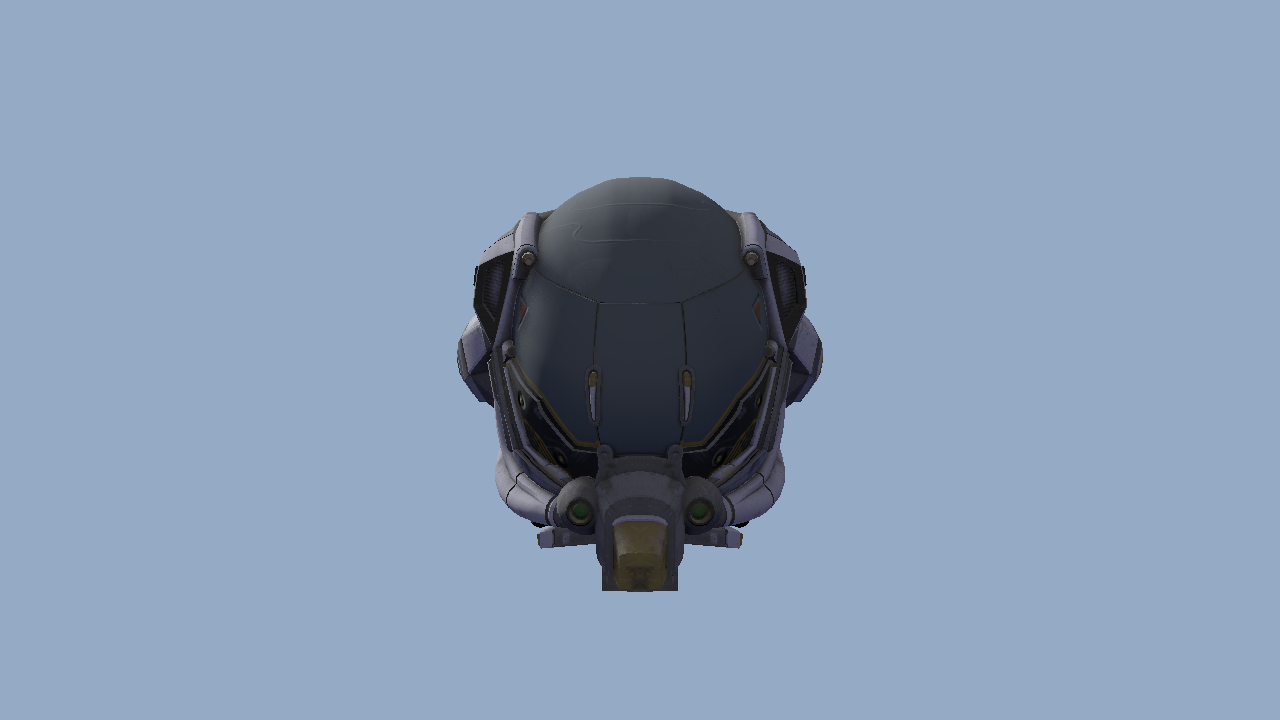
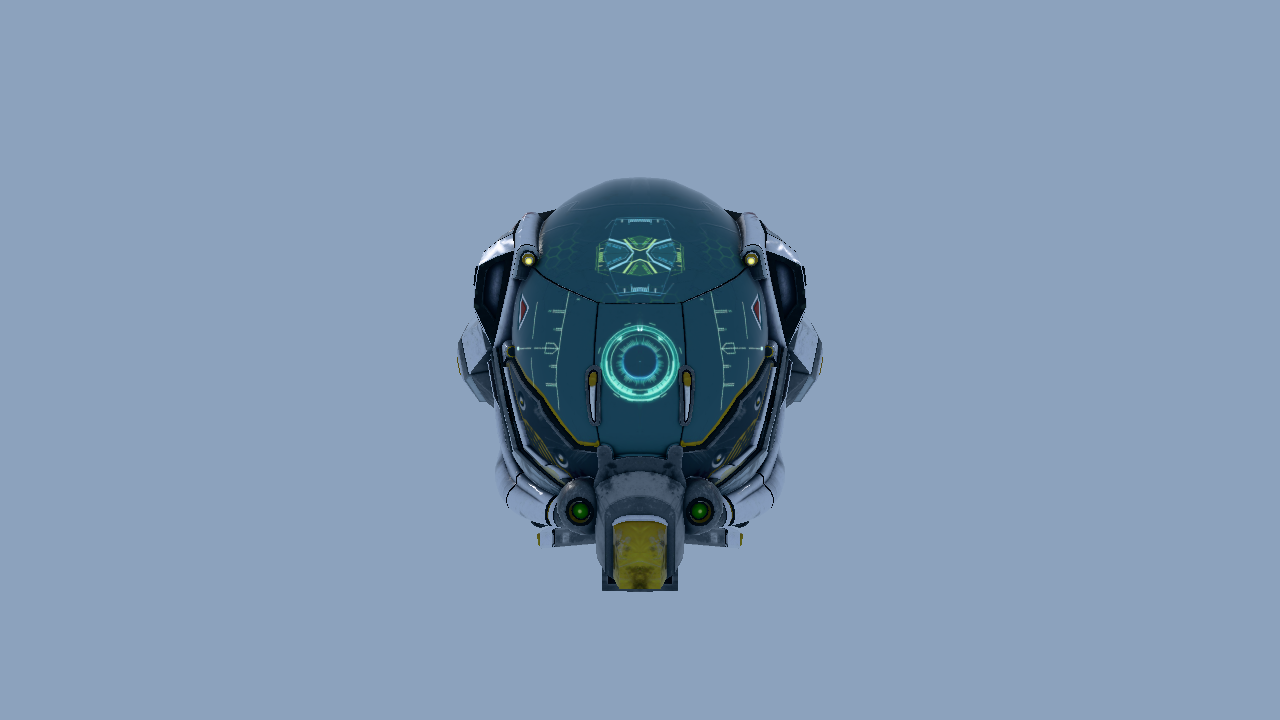
docs: refresh AGENTS and public copy for correct image formation
Update the architecture paragraph, the clear-color hard rule, the
scene list, and Stats-panel GPU timing; lead the README with shipped
PBR/IBL/HDR behavior and regenerate the gallery captures.

Changed region(s): [[0.3438, 0.2444, 0.6562, 0.825]]

diff --git a/README.md b/README.md
@@ -5,32 +5,34 @@
 [![Language](https://img.shields.io/badge/C%2B%2B-23-00599C)](#build-and-run)
 [![License](https://img.shields.io/badge/license-Apache--2.0-blue)](LICENSE)
 
-A compact C++23 renderer built directly on Metal 4. Luminex combines an explicit RHI, Slang
-shaders, real glTF content, GPU validation tests, and a docked editor in one inspectable codebase.
+A compact C++23 renderer built directly on Metal 4. Luminex combines an explicit RHI, a validating
+render graph, Slang shaders, real glTF content, GPU validation tests, and a docked editor in one
+inspectable codebase.
 
 [Rendering today](#rendering-today) · [Frame flow](#frame-flow) · [Build and run](#build-and-run) ·
 [Architecture](#architecture) · [What's next](#whats-next)
 
 ![Crytek Sponza atrium rendered by Luminex](docs/media/sponza.png)
 
-<p align="center"><sub>Crytek Sponza · forward lighting, normal mapping, PCF shadows · captured by the offscreen renderer</sub></p>
+<p align="center"><sub>Crytek Sponza · physically based materials, image-based lighting, scene-linear HDR · captured by the offscreen renderer</sub></p>
 
 ## Rendering today
 
 | Area | Current implementation |
 |---|---|
-| GPU backend | Native Metal 4 through metal-cpp; three frames in flight, argument tables, explicit residency and shared-event pacing |
-| Frame | Depth-only shadow pass → forward scene and sky → offscreen color → docked ImGui viewport |
-| Lighting | Gamma-correct linear Blinn-Phong, normal mapping, cubemap reflections and three directional lights |
+| GPU backend | Native Metal 4 through metal-cpp; three frames in flight, argument tables, explicit residency, shared-event pacing, and per-pass GPU timing |
+| Frame | A validating render graph schedules depth-only shadow → scene and sky → a neutral display transform → docked ImGui viewport, deriving its own barriers from declared resource uses |
+| Materials | Full glTF metallic-roughness inputs (base color, metallic-roughness, occlusion, emissive, normal) shaded with a GGX BRDF and diffuse/specular image-based lighting |
+| Image formation | Scene-linear FP16 color with manual exposure, a Khronos PBR Neutral display transform, and reversed infinite-far depth |
 | Shadows | 2048² directional shadow map with selectable 25-tap Poisson PCF or PCSS |
-| Content | Deterministically converted Crytek Sponza and Khronos Damaged Helmet through a focused glTF loader |
-| Editor | Scene selection, fly camera, light and object transforms, wireframe and shadow-filter controls |
-| Diagnostics | Object/pass labels, Metal validation, deterministic GPU smoke tests, capture sidecars and profiling tools |
+| Content | Deterministically converted Crytek Sponza and Khronos Damaged Helmet through a focused glTF loader, plus deterministic offline mip baking |
+| Editor | Scene selection, fly camera, light and object transforms, exposure, wireframe and shadow-filter controls, per-pass GPU timings |
+| Diagnostics | A code-generated material lab scene, object/pass labels, Metal validation, deterministic GPU smoke tests, capture sidecars and profiling tools |
 
 <p align="center">
   <img src="docs/media/damaged-helmet.png" alt="Khronos Damaged Helmet rendered by Luminex" width="760">
   <br>
-  <sub>Damaged Helmet · focused material, tangent-space and texture-path coverage</sub>
+  <sub>Damaged Helmet · full metallic-roughness material, image-based lighting, tangent-space normal mapping</sub>
 </p>
 
 ## Frame flow
@@ -39,25 +41,26 @@ shaders, real glTF content, GPU validation tests, and a docked editor in one ins
 flowchart TB
     subgraph Scene["Scene preparation"]
         direction LR
-        Assets["glTF + procedural geometry"] --> Engine["Engine scene"] --> View["SceneView"]
+        Assets["glTF + procedural geometry"] --> Engine["Engine scene + IBL"] --> View["SceneView"]
     end
-    subgraph Frame["Metal 4 frame"]
+    subgraph Frame["Render graph, declared and validated per frame"]
         direction LR
-        Shadow["Shadow pass"] -->|depth map| Forward["Forward + sky pass"] --> Color["Offscreen color"]
+        Shadow["Shadow pass"] -->|shadow map| Scene2["Scene + sky pass"] -->|HDR color| Display["Display transform"]
     end
-    subgraph Display["Presentation"]
+    subgraph Presentation
         direction LR
-        Barrier["Texture barrier"] --> UI["ImGui viewport"] --> Present["Metal swapchain"]
+        UI["ImGui viewport"] --> Present["Metal swapchain"]
     end
     View --> Shadow
-    View --> Forward
-    Color --> Barrier
+    View --> Scene2
+    Display --> UI
 ```
 
 The renderer keeps scene ownership above the rendering layer: Engine produces a plain per-frame
-`SceneView`, Render consumes it, and the RHI records the Metal 4 work without leaking Metal types
-through public interfaces. The complete resource and synchronization walkthrough is in
-[docs/frame-pipeline.md](docs/frame-pipeline.md).
+`SceneView`, Render declares the frame's passes into a `RenderGraph` that validates every
+declared read and write before compiling a schedule, and the RHI records the Metal 4 work without
+leaking Metal types through public interfaces. The complete resource and synchronization
+walkthrough is in [docs/frame-pipeline.md](docs/frame-pipeline.md).
 
 ## Build and run
 
@@ -74,12 +77,14 @@ xmake
 xmake run App
 ```
 
-`xmake setup` fetches pinned dependencies and sample assets, verifies their hashes, and converts
-the official Crytek Sponza OBJ distribution into the core glTF subset used at runtime. Generated
-content remains under the gitignored `Assets/Fetched/` directory.
+`xmake setup` fetches pinned dependencies and sample assets, verifies their hashes, converts the
+official Crytek Sponza OBJ distribution into the core glTF subset used at runtime, and bakes a
+deterministic offline mip chain for every referenced material image. Generated content remains
+under the gitignored `Assets/Fetched/` directory.
 
 The editor opens on Sponza. Hold right mouse in the viewport and use WASD + Q/E to fly. Select
-Damaged Helmet from the Inspector, or render either scene without a window:
+Damaged Helmet or the diagnostic material lab scene from the Inspector, or render any scene
+without a window:
 
 ```bash
 xmake run App --scene damaged-helmet --screenshot helmet.bmp
@@ -110,7 +115,7 @@ paravirtual GPU. Renderer changes therefore require the local Metal-validation c
 flowchart TB
     subgraph Layers["Renderer layers"]
         direction LR
-        App["App<br/>SDL3 + ImGui"] --> Engine["Engine<br/>scenes + assets"] --> Render["Render<br/>camera + passes"]
+        App["App<br/>SDL3 + ImGui"] --> Engine["Engine<br/>scenes + IBL + baking"] --> Render["Render<br/>camera + render graph"]
     end
     subgraph GPU["GPU interface"]
         direction LR
@@ -128,27 +133,27 @@ command recording, synchronization, residency and swapchain contracts; rendering
 |---|---|
 | `Source/RHI` | Backend-neutral interfaces and validation |
 | `Source/RHI/Metal4` | Metal objects, frame lifetime, command encoding and ImGui integration |
-| `Source/Render` | Camera, meshes, shadow/scene/sky passes and frame targets |
-| `Source/Engine` | Scene catalog, glTF/DDS loading, geometry and color handling |
+| `Source/Render` | Camera, meshes, the validating render graph, shadow/scene/sky/display passes |
+| `Source/Engine` | Scene catalog, glTF/DDS loading, geometry, color handling, IBL generation, mip baking |
 | `Source/App` | SDL3 window, editor shell, CLI and offscreen screenshots |
 | `Shaders` | Slang modules and render/test entry points |
 | `Tools/GpuDebug` | Capture inspection, schema validation and profiling |
 
 ## What's next
 
-- A validating render graph with GPU timestamps and transient resource lifetimes
-- Scene-linear HDR, exposure and a replaceable display transform
-- glTF metallic-roughness PBR, image-based lighting and a deterministic material lab
-- Correct filtered mip generation, normal transforms and broader material coverage
-- Temporal state, motion vectors and a reference anti-aliasing/upscaling path
+- A compute and storage execution substrate with transient resource pooling and inspection
+- Automatic exposure, bloom and a temporal reconstruction path
+- Cascaded shadows, atmosphere and transparent surfaces on the shared lighting model
 - GPU scene data, visibility culling and indirect submission after the frame contract is stable
+- A second RHI backend once the render graph's semantics are frozen for portability
 
 The dependency order and exit gates live in the [engineering roadmap](docs/roadmap.md).
 
 ## Current boundaries
 
 - Metal 4 on Apple Silicon is the only runtime backend.
-- The renderer is forward, LDR and Blinn-Phong; full glTF PBR and post-processing are not present.
+- The render graph encodes render passes only; compute execution, transient pooling and automatic
+  exposure are not present yet.
 - Large sample scenes load synchronously and require `xmake setup` before first use.
 - Sample assets and derived gallery images keep their upstream licenses; see
   [THIRD_PARTY_NOTICES.md](THIRD_PARTY_NOTICES.md).

diff --git a/AGENTS.md b/AGENTS.md
@@ -8,15 +8,16 @@ thin RHI and one implemented backend.
 - Current architecture: `docs/architecture/overview.md` · Frame walkthrough: `docs/frame-pipeline.md`
 - GPU debugging: `docs/guides/gpu-debugging.md`
 - ADRs: `docs/decisions/` · Conventions: `docs/conventions/` · Roadmap: `docs/roadmap.md`
-- Current baseline: `docs/milestones/m3.1.md` · Active plan:
-  `docs/plans/2026-08-10-m4-correct-image-formation.md`
+- Current baseline: `docs/milestones/m4.md` · No active implementation plan
 
 ## Commands
 - Setup (once): `brew install xmake`, `xmake setup` — fetches pinned ThirdParty deps (metal-cpp,
   slang, Dear ImGui docking-branch commit), Damaged Helmet, and the official ~78 MB Crytek Sponza
   OBJ+PNG archive into gitignored `Assets/Fetched/`, with upstream provenance/license metadata.
-  Setup deterministically converts Sponza to uncompressed core glTF; pins and hashes are in
-  `xmake.lua`. Optional:
+  Setup deterministically converts Sponza to uncompressed core glTF, then bakes every base-color
+  and normal image referenced by Sponza and Damaged Helmet into a deterministic offline mip chain
+  (`Tools/TextureBake`, DDS + manifest) that scene loading prefers over its in-process fallback;
+  pins and hashes are in `xmake.lua`. Optional:
   `xcodebuild -downloadComponent MetalToolchain` enables offline shader precompile (runtime-MSL
   fallback works without it).
 - Editor setup (once, for clangd): `xmake project -k compile_commands` writes
@@ -28,12 +29,14 @@ thin RHI and one implemented backend.
 - Format: `xmake format` (check: `xmake format --check`) · Policy: `xmake policy`
 - Scenes: `xmake run App` opens the editor with Sponza selected by default (scene dropdown in the
   Inspector). Offscreen: `xmake run App --screenshot <out.bmp>` or `--scene
-  <sponza|damaged-helmet> --screenshot <out.bmp>`. Running the binary directly
+  <sponza|damaged-helmet|material-lab> --screenshot <out.bmp>`. Running the binary directly
   requires CWD = its build dir (shaders resolve relative to CWD). Sponza's first load decodes its
   referenced textures — expect several seconds in a debug build.
 - Debug: Metal validation `MTL_DEBUG_LAYER=1 xmake run App`; GPU capture: press `c` in-app
   (needs `MTL_CAPTURE_ENABLED=1`), then open the .gputrace in Xcode. Automated runs:
   `LMX_MAX_FRAMES=N` exits after N frames; `LMX_CAPTURE_AT_FRAME=N` captures without a keypress.
+  The Inspector's Stats panel lists every render-graph pass of the newest retired frame with its
+  GPU milliseconds.
 - GitHub-hosted macOS exposes a paravirtual GPU without Metal 4. Hosted CI compiles and inventories
   GPU cases; renderer/RHI/shader PRs still require `MTL_DEBUG_LAYER=1 xmake test Tests/gpu` on
   Metal 4 Apple Silicon before merge.
@@ -48,14 +51,17 @@ thin RHI and one implemented backend.
 `Source/Core` (lmx:: log/assert) → `Source/RHI` (lmx::rhi interfaces; **no Metal types in public
 headers**) → `Source/RHI/Metal4` (the only backend: metal-cpp, 3 frames in flight, argument tables
 + per-frame uniform rings with a checked recycle invariant, residency set, shared-event pacing,
-samplers, sRGB/BC1/cubemap formats, depth-only passes, `Metal4ImGui` glue) → `Source/Render`
-(lmx::render: `Camera`, `Mesh`, `Renderer` — shadow pass → scene+sky pass → barrier, consuming a
+per-pass GPU timing, samplers, sRGB/BC1/cubemap/RGBA16Float formats, depth-only passes,
+`Metal4ImGui` glue) → `Source/Render` (lmx::render: `Camera`, `Mesh`, the validating `RenderGraph`,
+`Renderer` — declares shadow, scene+sky, and display-transform passes into a graph consuming a
 plain `SceneView`; `fitShadowOrtho` and friends are free functions) → `Source/Engine` (lmx::engine:
-`Scene`/`SceneLibrary`, GeometryGenerator, DDS/glTF loaders, sRGB color utilities) →
-`Source/App` (SDL3 window, docked ImGui editor shell — scene dropdown, light editor, render
-settings — frame loop, `--screenshot` path). Shaders: `Shaders/*.slang` — six files: Encode,
-Lighting, Shadow (shared modules), ScenePass, ShadowPass, Sky (+ Triangle/SamplerSmoke/CubeSmoke/
-ShadowSmoke/FullscreenSample as test oracles). One frame end-to-end: `docs/frame-pipeline.md`.
+`Scene`/`SceneLibrary`, GeometryGenerator, DDS/glTF loaders, sRGB color utilities, deterministic
+CPU-side image-based-lighting generation (`Ibl.h`), deterministic offline texture mip baking
+(`TextureBake.h`)) → `Source/App` (SDL3 window, docked ImGui editor shell — scene dropdown, light
+editor, render settings — frame loop, joins its own UI pass to the graph, `--screenshot` path).
+Shaders: `Shaders/*.slang` — Encode, Lighting, Shadow (shared modules), ScenePass, ShadowPass, Sky,
+DisplayTransform (+ Triangle/SamplerSmoke/CubeSmoke/ShadowSmoke/FullscreenSample as test oracles).
+One frame end-to-end: `docs/frame-pipeline.md`.
 
 ## Hard rules
 - C++23. No Metal 3 fallback (`MTLGPUFamilyMetal4` required). 3 frames in flight.
@@ -64,9 +70,10 @@ ShadowSmoke/FullscreenSample as test oracles). One frame end-to-end: `docs/frame
   Assets/Fetched/ are fetched via `xmake setup`, pinned in xmake.lua, never committed.
 - Engineering and documentation follow `docs/conventions/`. Every commit compiles, passes the
   relevant tests, and passes `xmake policy`.
-- Lighting math runs in linear space; authored color constants decode via
-  `engine::srgbToLinear` at scene build. The single exception is the clear color (written raw —
-  the hardware clear bypasses the shader-side sRGB encode).
+- Lighting math runs in scene-linear space and is pre-exposed before the scene target sees it;
+  authored color constants, including the editor's clear color, decode via `engine::srgbToLinear`
+  (or `Render/ColorTransfer.h`'s copy, below Engine in the dependency chain) once at scene build or
+  pass declaration. Nothing upstream of `Shaders/DisplayTransform.slang` encodes sRGB.
 - Public-facing copy (README, GitHub About, release text, gallery captions) leads with shipped
   rendering behavior and uses plain feature themes for future work. It never exposes milestone
   numbers, task/plan status, or an unimplemented backend as a current capability. `CLAUDE.md`
